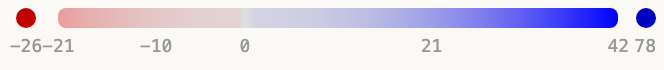
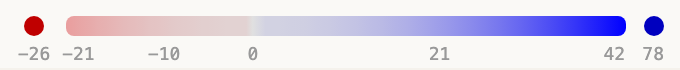
Nudge legend's extreme ticks inward so they don't merge with the outlier labels
-21/42 sat exactly on the bar's own edges, right against the -26/78 outlier
count labels just outside it, reading as a single merged "-26-21" number.
Also picks up the #legend padding tweak and the resulting screenshot refresh.

diff --git a/js/map-container.js b/js/map-container.js
@@ -601,7 +601,11 @@ export const wireLegend = ({ getById }) => {
       ? [-theme.ratioMaxNeg, -theme.ratioMaxNeg / 2, 0, theme.ratioMaxPos / 2, theme.ratioMaxPos].map(Math.round)
       : [1, 0.75, 0.5, 0.25, 0].map(f => Math.round(theme.ratioMax * f));
     const pct = t => theme.diverging ? _divergingPos(t, theme) * 100 : (1 - t / theme.ratioMax) * 100;
-    render(html`${ticks.map(t => html`<span style="position:absolute; left:${pct(t)}%; transform:translateX(-50%)">${t}</span>`)}`, els.ticks);
+    // The two extreme ticks sit exactly at the bar's own edges (0%/100%) — right next to that
+    // side's own outlier count label (#legend-outlier-count / -count-pos, just outside the bar)
+    // — so nudge them inward a few px, otherwise the two numbers visually merge (e.g. "-26-21").
+    const nudge = i => i === 0 ? 6 : i === ticks.length - 1 ? -6 : 0;
+    render(html`${ticks.map((t, i) => html`<span style="position:absolute; left:${pct(t)}%; transform:translateX(calc(-50% + ${nudge(i)}px))">${t}</span>`)}`, els.ticks);
   };
 
   const updateOutlier = () => {

diff --git a/wc2026_map.html b/wc2026_map.html
@@ -83,7 +83,7 @@
       <span id="legend-born-brief" class="d-md-none"></span>
     </div>
     <span id="zoom-level" hidden></span>
-    <div id="legend" class="d-flex align-items-start p-1">
+    <div id="legend" class="d-flex align-items-start" style="padding: .5rem .5rem 0 .5rem !important;">
       <div class="d-flex flex-column pe-2">
         <div class="d-flex align-items-center justify-content-center legend-outlier-wrap">
           <div id="legend-outlier-dot" class="legend-outlier-dot"></div>